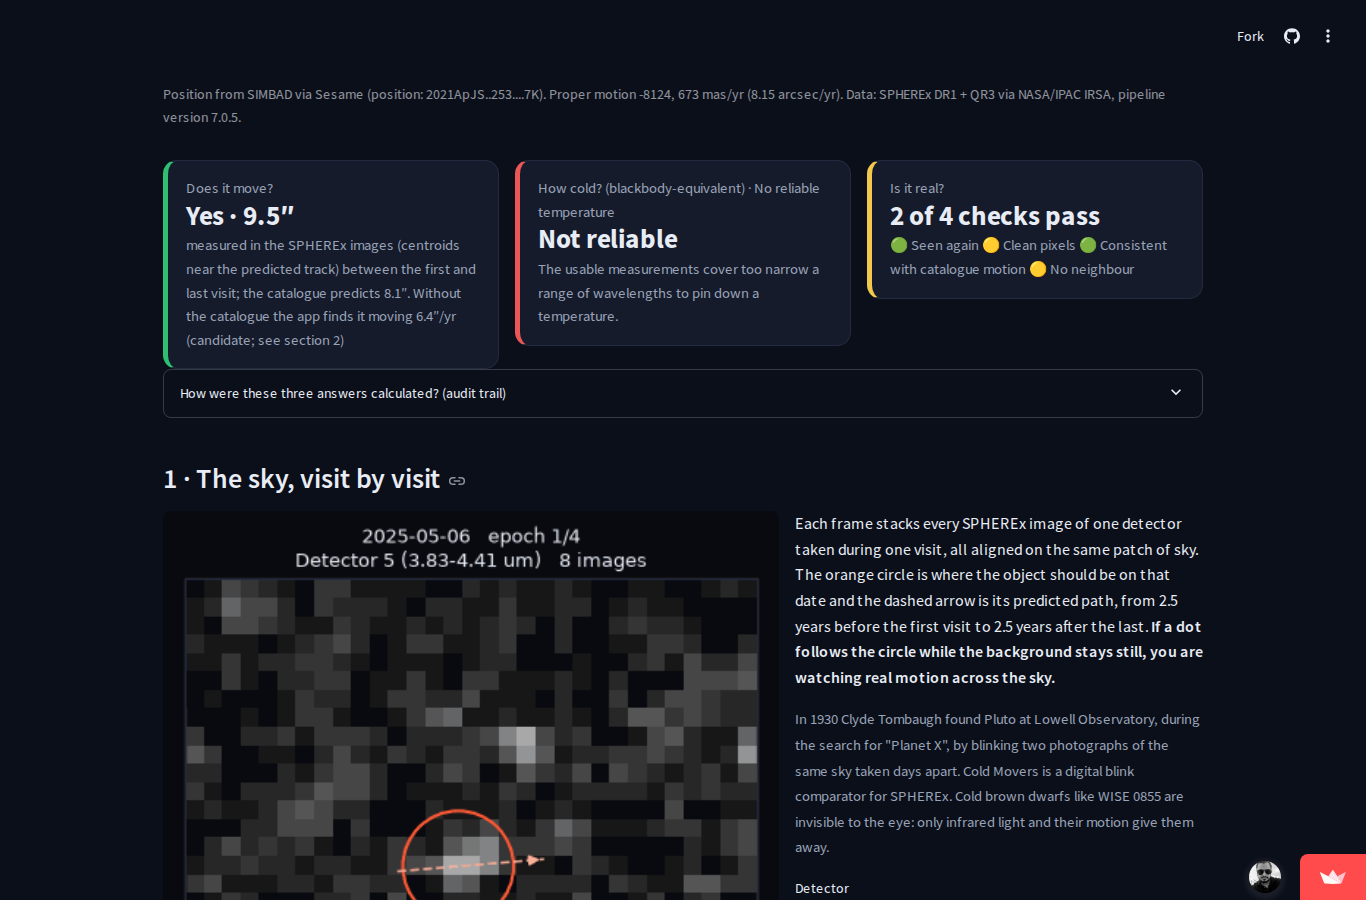
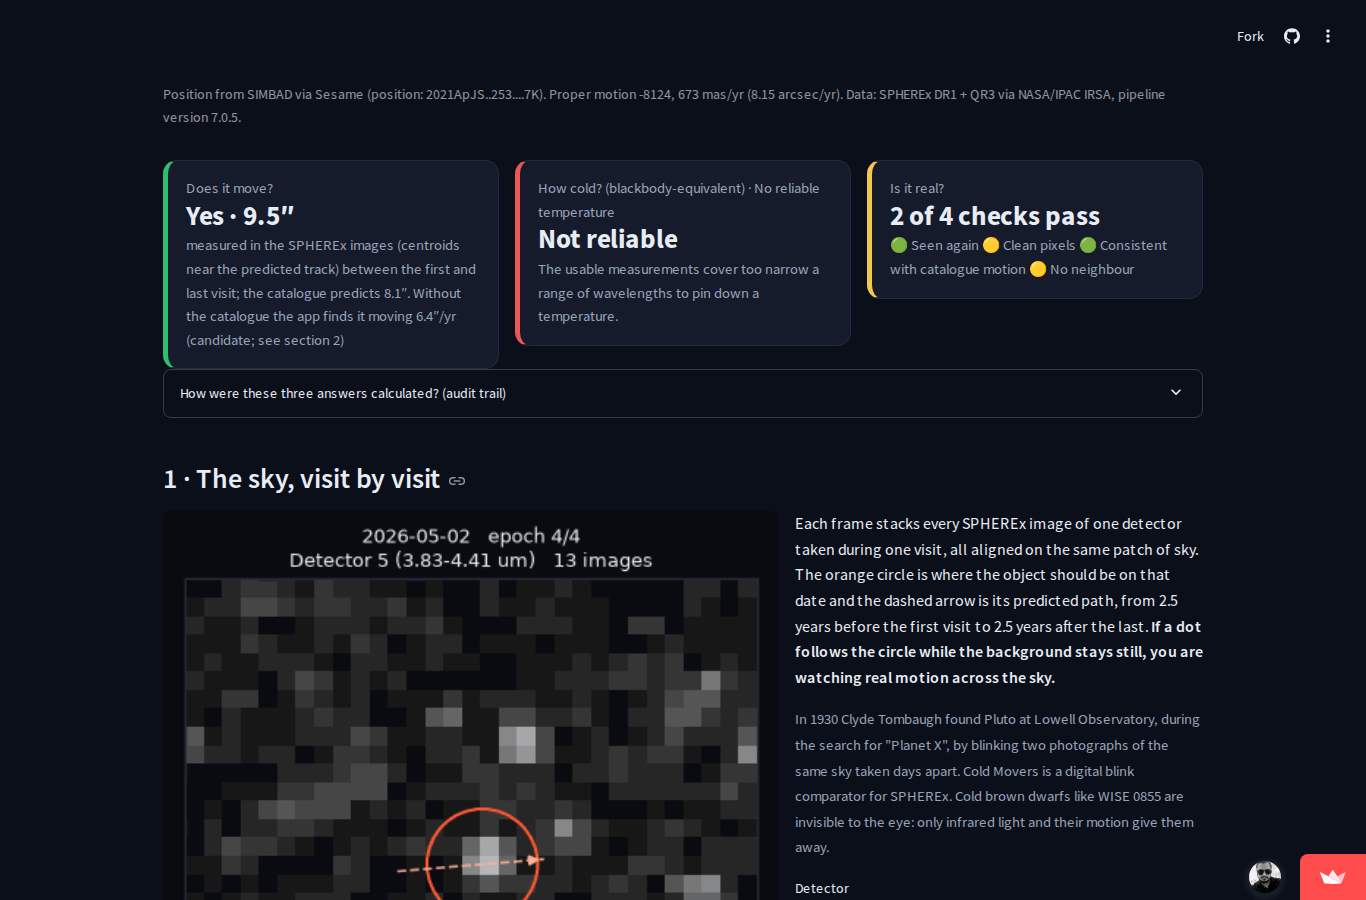
Update app screenshots

Changed region(s): [[0.123, 0.5911, 0.5534, 1.0]]

diff --git a/docs/validation.md b/docs/validation.md
@@ -1,0 +1,10 @@
+# Validation numbers (generated by `scripts/validation_report.py` with the app's own code)
+
+| Object | SPHEREx images / visits | Moved between first and last visit (measured / catalogue) | Found with no catalogue | Catalogue motion | Blackbody-equivalent temperature | Published |
+|---|---|---|---|---|---|---|
+| Barnard's Star | 300 / 6 | 11.1″ / 11.1″ | 9.83″/yr towards 354°, confirmed (detectors 5, 6) | 10.39″/yr, 356° | 🔴 not reliable: Too bright for SPHEREx | 3231 ± 21 K (M4 red dwarf) |
+| Epsilon Indi B | 299 / 4 | 6.4″ / 6.6″ | 4.54″/yr towards 125°, confirmed (detectors 2, 3, 4, 5, 6) | 4.68″/yr, 122° | 🟡 1,874 K: One blackbody does not describe this spectrum | Ba ≈ 1300–1340 K (T1), Bb ≈ 880–940 K (T6); SPHEREx sees the pair blended |
+| WISE 0855-0714 | 256 / 4 | 9.5″ / 8.1″ | 6.36″/yr towards 268°, candidate (detector 5) | 8.15″/yr, 275° | 🔴 not reliable: The usable measurements cover too narrow a range of wavelengths to pin down a temperature; It only shows up beyond 3 um; A neighbouring source blended with the target in some images; those measurements were left out | ≈ 285 K (Y dwarf, coldest known brown dwarf) |
+| RW Aurigae | 299 / 3 | 0.5″ / 0.0″ | none | 0.02″/yr, 160° | 🔴 not reliable: The usable measurements cover too narrow a range of wavelengths to pin down a temperature; Too bright for SPHEREx | K-type young star; its dusty disk adds extra infrared light |
+| R Draconis | 300 / 3 | 0.4″ / 0.0″ | none | 0.02″/yr, 287° | 🔴 not reliable: Too bright for SPHEREx | Mira variable (M-type giant): brightness and temperature change over its cycle |
+| TRAPPIST-1 *(extra)* | 295 / 3 | 1.1″ / 1.0″ | none | 1.05″/yr, 117° | 🟡 2,464 K: One blackbody does not describe this spectrum | 2566 ± 26 K (M8 dwarf with seven planets) |
